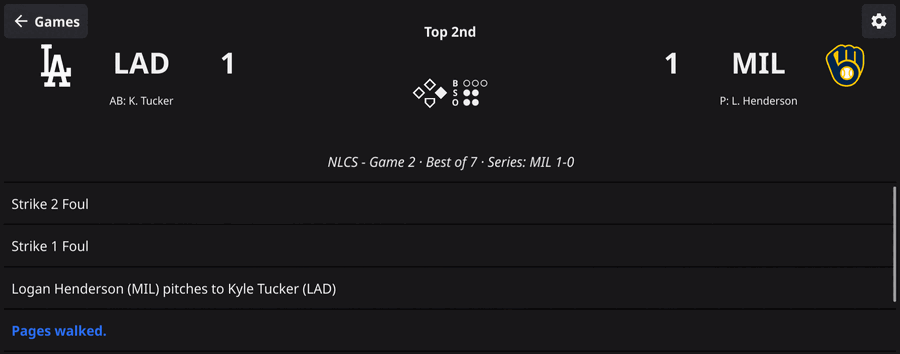
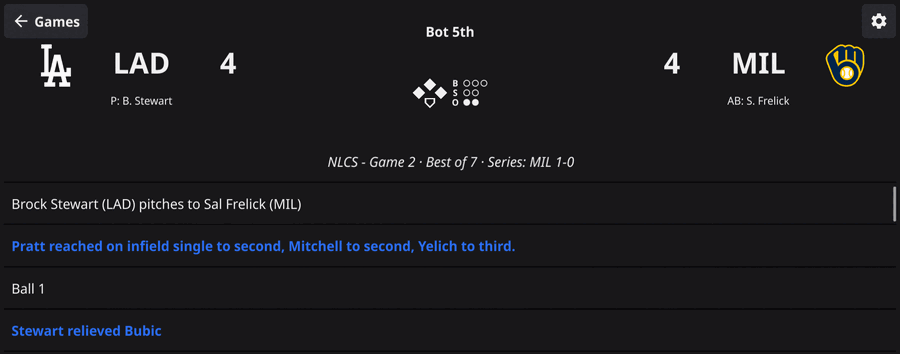
README: the game screenshot is the bases-loaded frame from NLCS game 2

diff --git a/README.md b/README.md
@@ -14,7 +14,7 @@ unofficial and undocumented, so it can change without notice.
 
 ![The game picker on college football's Top 25, with rankings, records and kickoff times](docs/screenshots/picker-top25.png)
 
-![A baseball game in progress: the score, the bases, the count and outs, the batter and pitcher, and the newest plays](docs/screenshots/game-baseball.png)
+![A baseball game in progress with the bases loaded: the score, the bases, the count and outs, the batter and pitcher, and the newest plays, including a pitching change](docs/screenshots/game-baseball.png)
 
 - **A GUI** (`playcall-gui`, built with [Fyne](https://fyne.io)): pick a game
   from today's scoreboard, then watch a header with both teams' logos, the
